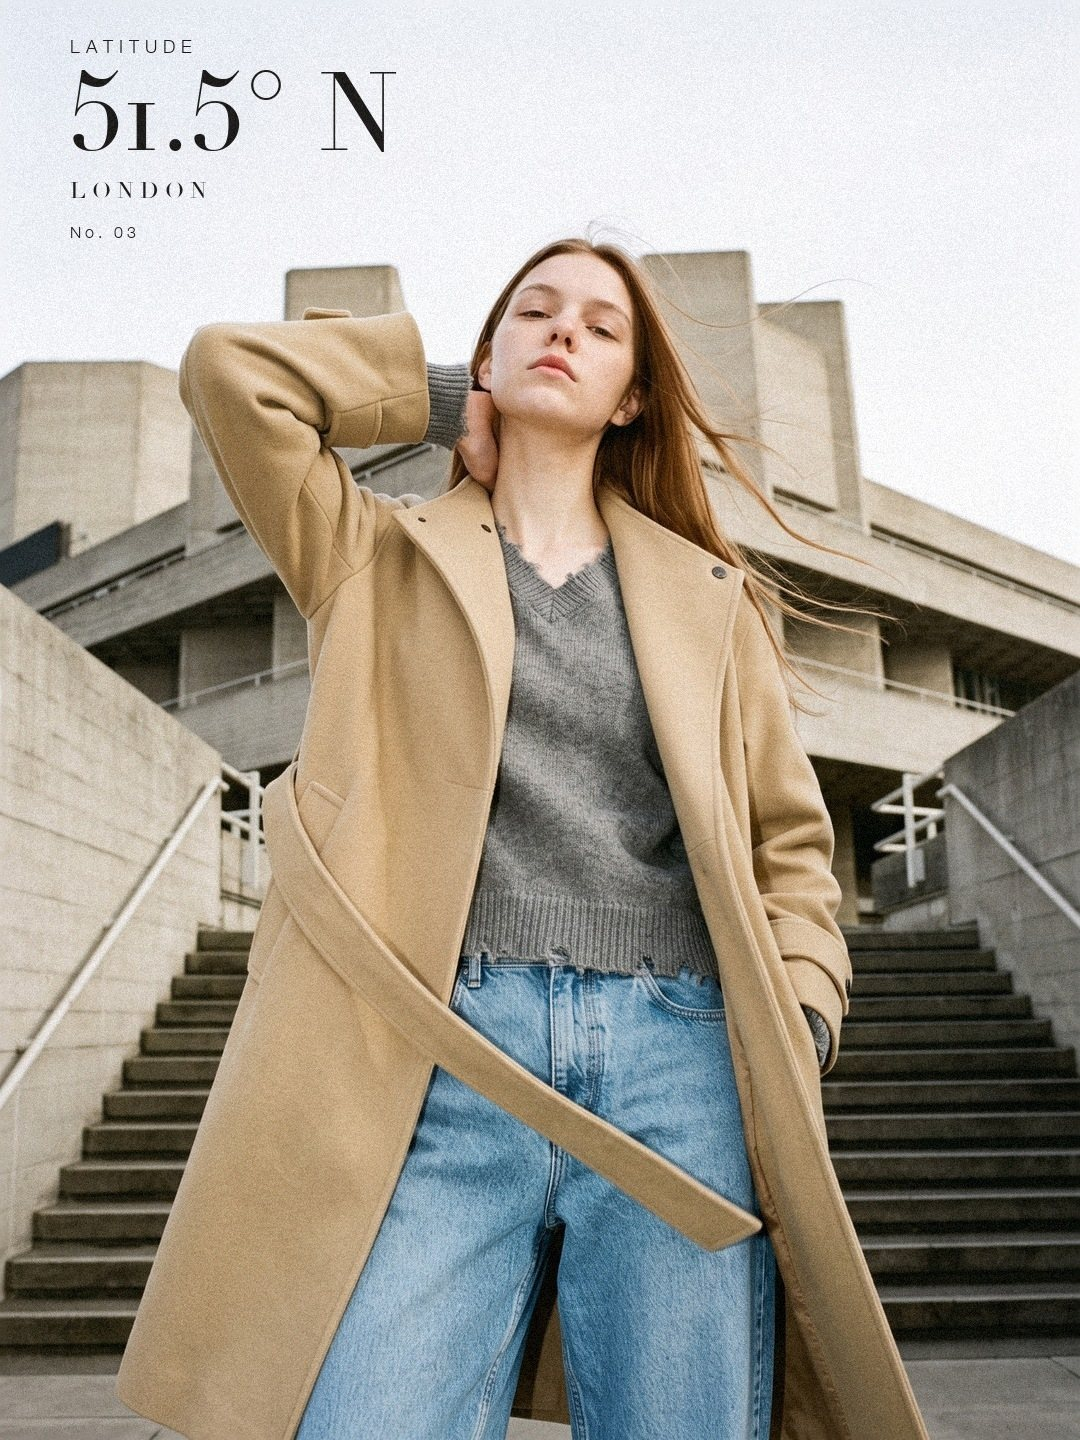
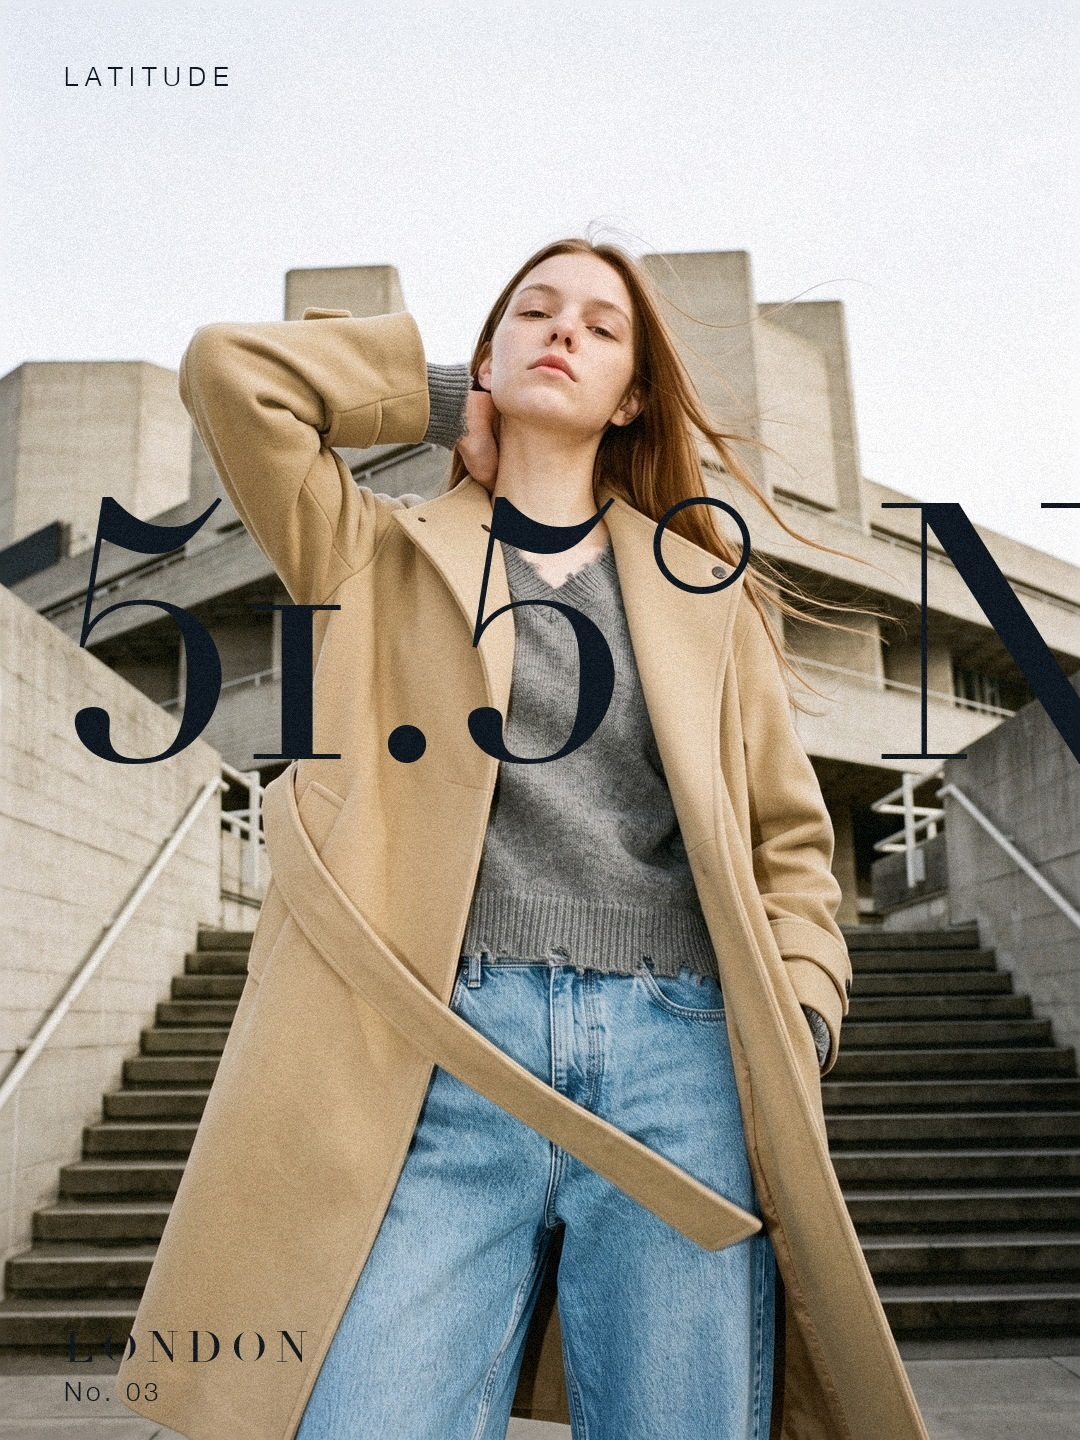
LATITUDE No.03 London: big latitude on the cover and page 01 (black), reel v13 with the shrinking title

diff --git a/lib/latitude.ts b/lib/latitude.ts
@@ -121,7 +121,7 @@ export const ISSUES: LatitudeIssue[] = [
       'Years ago, as a student in London, I heard Music for 18 Musicians at the Barbican. The pulse is still in these walls.', // 2026-10-21 編集者本人の記憶（事実）
     ],
     pages: pages(18, [9]), // 2026-10-21 旅の1日を追う18枚に（9は動くページ）
-    streamId: '460e485d748479bb46ff6349fee8705d',
+    streamId: 'be1e0d53c1e4fb36d3fca08e3a82b81a', // v13（大きな緯度が縮んで落ち着く冒頭。前は 460e485d…）
     publishAt: '2026-10-22T10:00:00+01:00', // ロンドン時間（BST）10:00 = 日本時間 18:00
     credits: ['Map data © OpenStreetMap contributors'],
   },
